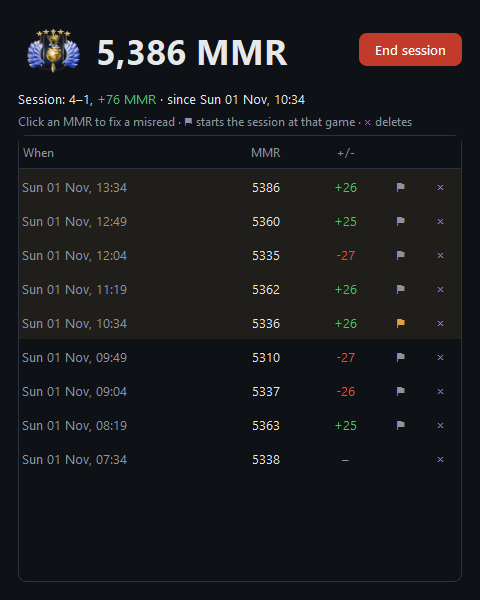
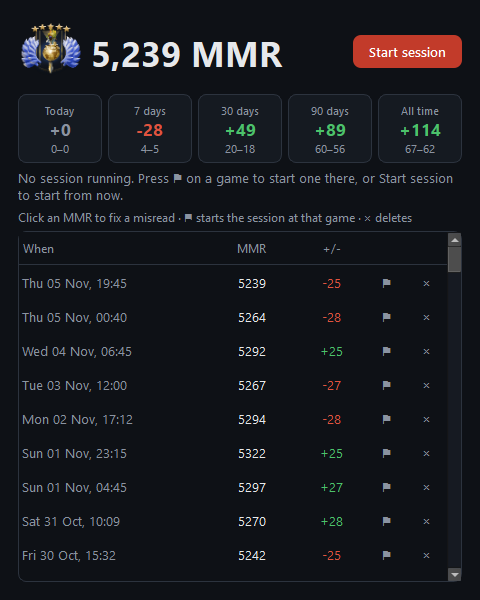
History window: +/- and W-L for Today, 7, 30, 90 days and All time
A row of small boxes at the top of the history window, all periods side
by side instead of a picker. Today starts at local midnight (the widget's
"today" now uses the same period_start helper), the others are rolling
windows.

diff --git a/rank_overlay.py b/rank_overlay.py
@@ -45,6 +45,7 @@ QToolTip { background: #171b22; color: #e6e8eb; border: 1px solid #2c333e; paddi
 #history QLabel { color: #e6e8eb; font: 10pt "Segoe UI"; }
 #history QLabel#dim { color: #8b93a1; font: 9pt "Segoe UI"; }
 #history QLabel#big { font: 700 26pt "Segoe UI"; }
+#history QLabel#tile { background: #151a21; border: 1px solid #2c333e; border-radius: 8px; padding: 6px 2px; }
 #history QPushButton { background: #c23b2a; color: #ffffff; border: 0; border-radius: 8px; padding: 8px 16px;
                        font: 600 10pt "Segoe UI"; }
 #history QPushButton:hover { background: #d4493a; }
@@ -108,6 +109,18 @@ def games(log):
     didn't capture in between end up as one combined change."""
     return [(cur["t"], cur["mmr"], cur["mmr"] - prev["mmr"])
             for prev, cur in zip(log, log[1:]) if cur["mmr"] != prev["mmr"]]
+
+
+PERIODS = (("Today", 0), ("7 days", 7), ("30 days", 30), ("90 days", 90), ("All time", None))
+
+
+def period_start(days, now_ms):
+    """Start (ms) of a period: 0 days = since midnight today, None = everything."""
+    if days is None:
+        return 0
+    if days == 0:
+        return int(time.mktime(time.localtime(now_ms / 1000)[:3] + (0, 0, 0, 0, 0, -1)) * 1000)
+    return now_ms - days * 86_400_000
 
 
 def summary(log, since):
@@ -451,8 +464,7 @@ class Overlay(QWidget):
         # right, top: session (or today) W-L and MMR total
         x, right = 84, self.W - 12
         start = self.app.session_start()
-        midnight = time.mktime(time.localtime()[:3] + (0, 0, 0, 0, 0, -1)) * 1000
-        w, l, total = summary(log, start or midnight)
+        w, l, total = summary(log, start or period_start(0, int(time.time() * 1000)))
         parts = [(f"{'session' if start else 'today'} {w}–{l}", DIM)]
         if w + l:
             parts.append((f" {total:+d}", WIN if total >= 0 else LOSS))
@@ -535,6 +547,13 @@ class History(QWidget):
         self.table.itemChanged.connect(self.edited)
         self.table.cellClicked.connect(self.clicked)
 
+        self.tiles = QHBoxLayout()  # +/- and W-L over a few periods, side by side
+        self.tiles.setSpacing(6)
+        for _ in PERIODS:
+            tile = QLabel(alignment=Qt.AlignCenter)
+            tile.setObjectName("tile")
+            self.tiles.addWidget(tile)
+
         self.medal = QLabel()
         top = QHBoxLayout()
         top.addWidget(self.medal)
@@ -544,6 +563,7 @@ class History(QWidget):
         lay = QVBoxLayout(self)
         lay.setContentsMargins(18, 16, 18, 18)
         lay.addLayout(top)
+        lay.addLayout(self.tiles)
         lay.addWidget(self.session)
         lay.addWidget(self.hint)
         lay.addWidget(self.table)
@@ -563,6 +583,14 @@ class History(QWidget):
             self.session.setText("<span style='color:#8b93a1'>No session running. Press ⚑ on a game to start "
                                  "one there, or Start session to start from now.</span>")
         self.button.setText("End session" if start else "Start session")
+        now = int(time.time() * 1000)
+        for i, (name, days) in enumerate(PERIODS):
+            w, l, total = summary(log, period_start(days, now))
+            color = (WIN if total > 0 else LOSS if total < 0 else DIM).name()
+            self.tiles.itemAt(i).widget().setText(
+                f"<span style='color:#8b93a1; font-size:8pt'>{name}</span><br>"
+                f"<span style='color:{color}; font-size:13pt; font-weight:700'>{total:+d}</span><br>"
+                f"<span style='color:#8b93a1; font-size:8pt'>{w}–{l}</span>")
 
         t = self.table
         t.blockSignals(True)

diff --git a/test_rank_overlay.py b/test_rank_overlay.py
@@ -18,6 +18,14 @@ assert summary(log, 2500 * S) == (1, 1, 5)  # marked the 2nd game as the start
 assert summary(log, 4000 * S) == (1, 0, 29)  # start exactly at a game counts it
 assert summary(log, 5000 * S) == (0, 0, 0)  # started after the last game: nothing yet
 
+# the history's period boxes: Today starts at local midnight, N days is a rolling window, All is everything
+import time  # noqa: E402
+from rank_overlay import period_start  # noqa: E402
+now = int(time.mktime((2026, 11, 6, 15, 30, 0, 0, 0, -1)) * 1000)
+assert period_start(0, now) == int(time.mktime((2026, 11, 6, 0, 0, 0, 0, 0, -1)) * 1000)
+assert period_start(7, now) == now - 7 * 86_400_000 and period_start(None, now) == 0
+assert summary(log, period_start(None, now)) == summary(log, 0)
+
 # a re-capture within 10 minutes replaces the last entry (misread fix), later ones append
 assert add_log(log, 3010, 4000 * S + 60 * S)[-2:] == [log[3], {"t": 4060 * S, "mmr": 3010}]
 assert len(add_log(log, 3010, 4000 * S + 11 * 60 * S)) == 6

diff --git a/README.md b/README.md
@@ -44,6 +44,7 @@ Every MMR change counts as one game: + is a **W**, − is an **L**. If you skip 
 - **Start session** (history window or right-click menu) counts every game from now.
 - Forgot to start one? In the history, click **⚑** on the first game of your session.
 - While a session runs, the widget shows `session 4–1 +76`. Otherwise it shows today's games.
+- The history window's top row shows your MMR +/- and W–L for **Today, 7 days, 30 days, 90 days and All time**, side by side.
 
 ![history](docs/history.png)
 
